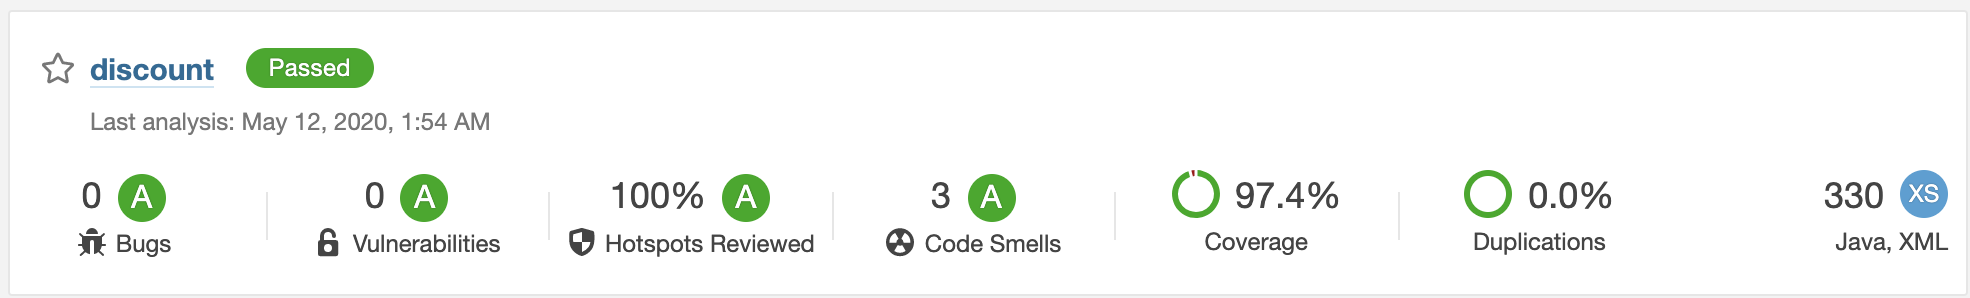
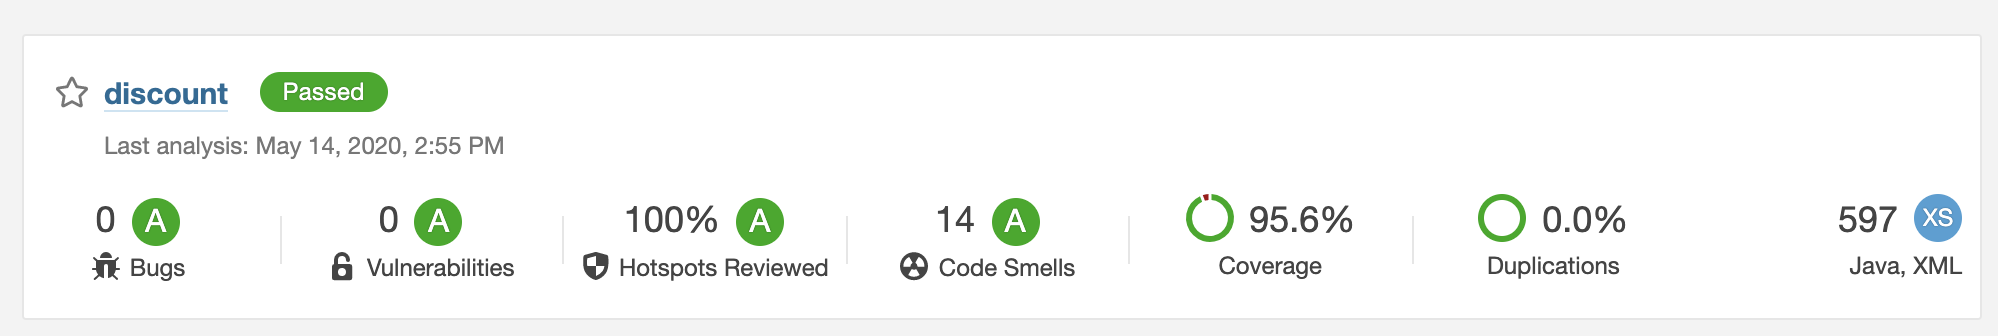
chore: updated Sonar reports and README.md + minor edits

diff --git a/src/test/java/com/store/discount/AppControllersTest.java b/src/test/java/com/store/discount/AppControllersTest.java
@@ -3,9 +3,7 @@ package com.store.discount;
 import com.fasterxml.jackson.databind.ObjectMapper;
 import com.store.discount.constants.AppConstants;
 import com.store.discount.helpers.Utility;
-import com.store.discount.models.CustomerType;
-import com.store.discount.models.ProductCategory;
-import com.store.discount.models.Transaction;
+import com.store.discount.models.*;
 import org.junit.jupiter.api.MethodOrderer;
 import org.junit.jupiter.api.Order;
 import org.junit.jupiter.api.Test;
@@ -18,6 +16,8 @@ import org.springframework.test.web.servlet.MockMvc;
 import org.springframework.test.web.servlet.MvcResult;
 import org.springframework.test.web.servlet.request.MockMvcRequestBuilders;
 import org.springframework.test.web.servlet.result.MockMvcResultMatchers;
+
+import java.util.Date;
 
 import static org.springframework.test.web.servlet.result.MockMvcResultHandlers.print;
 import static org.springframework.test.web.servlet.result.MockMvcResultMatchers.status;
@@ -140,7 +140,7 @@ public class AppControllersTest {
         // Transaction for customer 1 (Employee)
         long customerId = 1;
         Transaction transaction = new Transaction(transactionId, customerId, productId);
-        mockMvc.perform(MockMvcRequestBuilders.post("/api/transactions/")
+        mockMvc.perform(MockMvcRequestBuilders.post(AppConstants.TRANSACTIONS_URI)
                 .content(mapper.writeValueAsString(transaction))
                 .contentType(MediaType.APPLICATION_JSON))
                 .andExpect(status().isOk())
@@ -231,13 +231,26 @@ public class AppControllersTest {
     @Test
     @Order(9)
     public void testExceptions() throws Exception {
-        MvcResult result = mockMvc.perform(MockMvcRequestBuilders.get("/api/all-customers/"))
+        MvcResult result = mockMvc.perform(MockMvcRequestBuilders.get(AppConstants.CUSTOMERS_WRONG_URI))
                 .andExpect(status().isNotFound())
                 .andDo(print())
                 .andReturn();
 
-        mockMvc.perform(MockMvcRequestBuilders.post("/api/customers/"))
+        mockMvc.perform(MockMvcRequestBuilders.post(AppConstants.CUSTOMERS_URI))
                 .andExpect(status().isInternalServerError())
                 .andDo(print());
+    }
+
+    // Misc tests
+    @Test
+    @Order(10)
+    public void testTransactionId() throws Exception {
+        TransactionId transactionId1 = new TransactionId(1,1,1);
+        TransactionId transactionId2 = new TransactionId(1,1,1);
+        Customer customer = new Customer(1, CustomerType.EMPLOYEE, new Date());
+
+        assert( (transactionId1.equals(transactionId2) == false)
+        && transactionId1.hashCode() != transactionId2.hashCode()
+        && customer != null);
     }
 }

diff --git a/src/main/java/com/store/discount/constants/AppConstants.java b/src/main/java/com/store/discount/constants/AppConstants.java
@@ -1,7 +1,11 @@
 package com.store.discount.constants;
 
 public class AppConstants {
-    public final static String CUSTOMERS_URI = "/api/customers/";
     public final static String PRODUCTS_URI = "/api/products/";
     public final static String TRANSACTIONS_URI = "/api/transactions/";
+    public final static String CUSTOMERS_URI = "/api/customers/";
+    public final static String CUSTOMERS_WRONG_URI = "/api/all-customers/";
+
+    private AppConstants() {
+    }
 }

diff --git a/src/main/java/com/store/discount/DiscountApplication.java b/src/main/java/com/store/discount/DiscountApplication.java
@@ -16,9 +16,9 @@ public class DiscountApplication {
     @Autowired
     Environment environment;
 
-    public static void main(String[] args) {
-        SpringApplication.run(DiscountApplication.class, args);
-    }
+//    public static void main(String[] args) {
+//        SpringApplication.run(DiscountApplication.class, args);
+//    }
 
     @Bean
     public CommandLineRunner commandLineRunner(ApplicationContext ctx) {

diff --git a/src/main/java/com/store/discount/helpers/Utility.java b/src/main/java/com/store/discount/helpers/Utility.java
@@ -8,6 +8,15 @@ import java.util.List;
 
 public class Utility {
 
+    private Utility() {
+    }
+
+    /**
+     * Return the sum of all purchase values
+     *
+     * @param purchases
+     * @return sum of all purchases
+     */
     public static double getBillTotalValue(List<Purchase> purchases) {
         double totalValue = 0;
         for (Purchase purchase : purchases) {

diff --git a/README.md b/README.md
@@ -154,7 +154,7 @@ Here is the coverage for the models package:
 ## SonarQube Report
 The code quality was analyzed using SonarQube. Here are some screenshots for the code analysis results of my project:
 
-![](/assets/Sonar_report.png 'SonarQube Report')
+![](/assets/sonar_report_details.png 'SonarQube Report Details')
 
 ![](/assets/sonar_report_summary.png 'SonarQube Report Summary')
 
@@ -164,7 +164,7 @@ To analyze the code:
 ```shell script
 ./sonar.sh console  
 ```
-* using your browser, open Sonar through the URL http://localhost:9000/, then login with admin/admin
+* using your browser, open Sonar through the URL `http://localhost:9000/`, then login with admin/admin
 * Click on create new project, generate a key for the project.
 * In the project, enable Sonar on Maven by adding the following to pom.xml:
 ```xml
